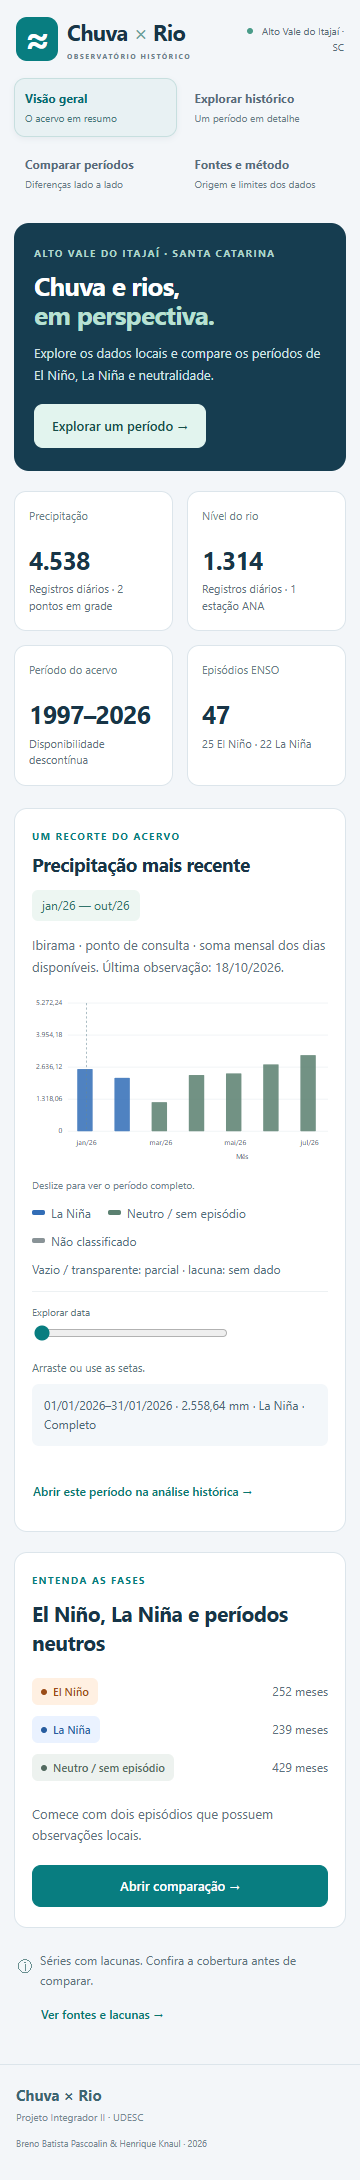
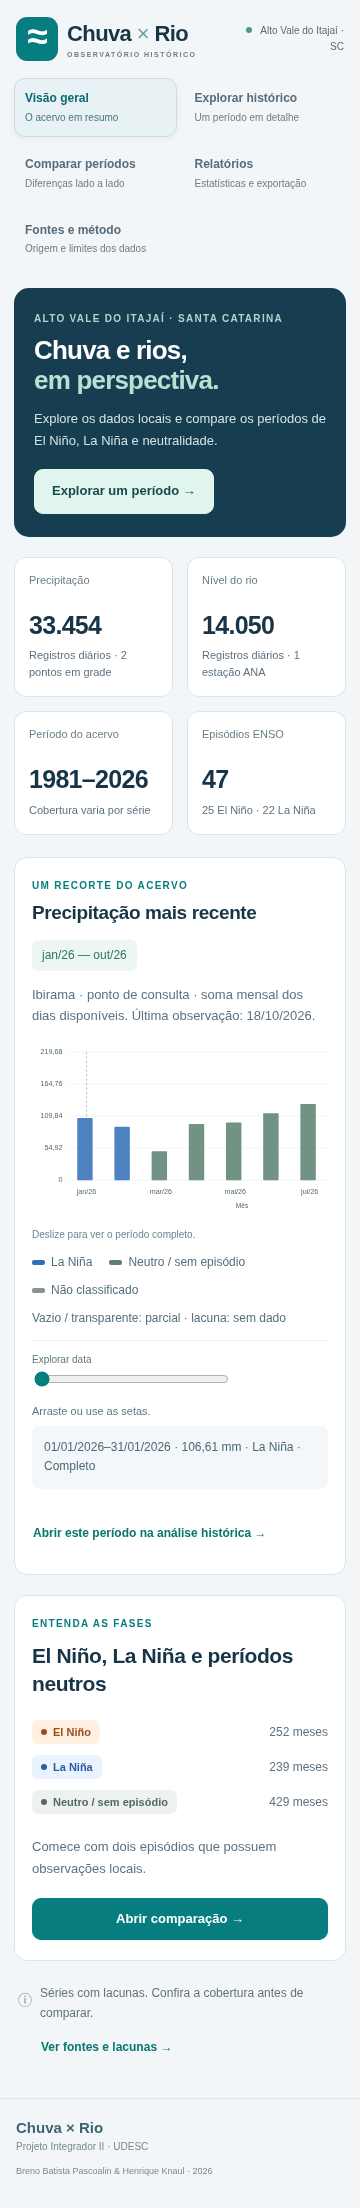
Documenta validação e atualiza roteiro e capturas

diff --git a/README.md b/README.md
@@ -3,13 +3,13 @@
 Análise histórica de precipitação, nível dos rios e fenômenos El Niño e La Niña no Alto Vale do Itajaí, Santa Catarina.
 **Projeto Integrador II — UDESC CEAVI · Breno Batista Pascoalin e Henrique Knaul.**
 
-MVP local com quatro áreas de navegação, filtros de período e fase ENSO, gráficos interativos, comparação e exportação CSV. A base distribuída contém **5.852 medições reais: 4.538 de precipitação NASA POWER e 1.314 de nível da ANA**, além do calendário histórico NOAA/CPC. Não há medições simuladas na demonstração.
+A versão de apresentação tem cinco áreas de navegação, filtros ENSO, gráficos interativos, comparação e relatórios com CSV e PDF. O acervo inclui **47.504 medições de fontes oficiais** (33.454 registros de precipitação NASA POWER e 14.050 de nível da ANA), 920 índices RONI e 94 janelas NOAA/CPC. A ampliação manteve as 5.852 datas por estação da versão anterior. A revisão oficial da NASA corrigiu 572 valores de 2026 e os originais continuam arquivados.
 
-![Visão geral do Chuva × Rio](docs/screenshots/dashboard.png)
+![Visão geral do Chuva × Rio](docs/screenshots/dashboard-1366.png)
 
 ## Executar em outra máquina
 
-Requisito: **Python 3.11 ou superior**, com pip. Baixe ou clone o repositório e abra o terminal na pasta que contém `run.py`.
+Requisito: **Python 3.11 ou superior**, com pip. Extraia o ZIP de entrega ou clone a branch de finalização e abra o terminal na pasta que contém `run.py`.
 
 **Windows / PowerShell:**
 
@@ -41,10 +41,13 @@ Nos exemplos seguintes, `python` representa o executável do ambiente virtual. U
 | --- | --- |
 | **Visão Geral** | Indicadores de dados e cobertura, resumo gráfico e atalhos para explorar a base. |
 | **Explorar histórico** | Escolha primeiro o período e os dados; ponto, estação e resolução ficam em “Local e detalhamento”. Valores, cobertura e máximos observados no intervalo. |
-| **Comparar períodos** | Exemplo El Niño × La Niña ou até três períodos personalizados, com um cartão por período, duração comum opcional e lacunas explícitas. |
-| **Fontes e método** | Fontes oficiais, calendário ENSO, critérios de agregação, cobertura por estação e histórico de cargas. |
+| **Comparar períodos** | Até três episódios, anos, datas personalizadas ou o período atual. Duração comum opcional e último dia com observação explícito. |
+| **Relatórios** | Recorte por datas, local, variável, fase e resolução. Estatísticas, cobertura, gráficos, CSV dos pontos e PDF consolidado. |
+| **Fontes e método** | Fontes oficiais, linha do tempo ENSO, critérios de agregação, cobertura por estação e histórico de cargas. |
 
 Gráficos respondem às seleções; os valores podem ser consultados nos pontos, nas tabelas e no CSV. Chuva e nível têm painéis e unidades distintos. El Niño aparece em laranja, La Niña em azul e neutralidade em verde; meses sem classificação ficam em cinza. Detalhes de amostra, máximos e procedência podem ser expandidos. Veja o [roteiro de apresentação](docs/DEMONSTRACAO.md) e os [resultados de validação](docs/STATUS_MVP.md).
+
+Em **Relatórios**, clique em **Salvar PDF** e escolha **Salvar como PDF** na caixa de impressão do navegador. O PDF reúne recorte, fontes, estatísticas e gráficos. O CSV separado preserva a tabela completa, com lacunas em branco.
 
 Para demonstrar **El Niño, La Niña e neutralidade no mesmo ano**, consulte **2016**, que tem precipitação e nível durante todo o ano. **1998** também atravessa as três fases, mas o nível possui lacunas. **2023–2024** mostra chuva real e explicita a indisponibilidade de nível no snapshot.
 
@@ -55,19 +58,19 @@ Para demonstrar **El Niño, La Niña e neutralidade no mesmo ano**, consulte **2
 - **NASA POWER — PRECTOTCORR:** precipitação diária em mm, nas coordenadas de Ibirama e Presidente Getúlio. É um produto em grade, não estação pluviométrica; pontos próximos podem compartilhar a mesma célula. [Documentação NASA](https://power.larc.nasa.gov/docs/services/api/temporal/daily/).
 - **ANA/SNIRH — estação 83440000, Ibirama, Rio Itajaí do Norte/Hercílio:** médias diárias consistidas, com status real, convertidas de cm para m. Referencial altimétrico desconhecido; são cotas locais, não altitude absoluta. [HidroWeb](https://www.snirh.gov.br/hidroweb/).
 
-O calendário distribuído cobre **janeiro de 1950 a agosto de 2026**. Medições locais cobrem **janelas descontínuas entre 1997 e 2026**, detalhadas em [data/README.md](data/README.md). Última precipitação válida: **18/10/2026**. Não há nível carregado para 2023–2024 nem para 2026. Um calendário extenso não significa cobertura hidrometeorológica contínua.
+O calendário distribuído cobre **janeiro de 1950 a agosto de 2026**. Há precipitação diária nos dois pontos de **01/01/1981 a 18/10/2026** e nível em Ibirama de **01/01/1981 a 31/12/2021**, com lacunas. Os pontos NASA retornaram os mesmos valores diários nesta base. A consulta de cotas de 2022 em diante não retornou médias diárias consistidas para incluir. Veja [cobertura, unidades e auditoria](data/README.md).
 
 Chuva mensal é a **soma dos dias válidos**; nível mensal é a **média dos dias válidos**. Um total parcial não representa um mês completo. Os indicadores de comparação entre períodos usam médias diárias (mm/dia para chuva e m para nível), acompanhadas de amostra e cobertura, evitando comparar apenas totais de períodos com tamanhos diferentes.
 
 O filtro ENSO conserva o eixo temporal: dias fora da fase escolhida são excluídos, sem serem contados como medições ausentes. Meses sem classificação são informados separadamente. Lacunas não são interpoladas nem convertidas em zero. A comparação de episódios por mês/dia relativo não controla sazonalidade; trecho comum limita a duração, mas não torna amostras equivalentes. Para múltiplos períodos mensais com trecho comum, inicie as janelas no dia 1; na resolução diária, podem começar em datas quaisquer.
 
-**Limites de interpretação:** os gráficos são descritivos. Não comprovam causalidade, não fazem previsão nem emitem alertas. Máximos são os maiores valores disponíveis no recorte, não limiares de desastre. A base fragmentada não sustenta climatologia local contínua nem anomalias climatológicas robustas.
+**Limites de interpretação:** os gráficos são descritivos. Não comprovam causalidade, não fazem previsão nem emitem alertas. Máximos são os maiores valores disponíveis no recorte, não limiares de desastre. A cobertura varia por variável e o produto em grade tem resolução espacial limitada.
 
 ## Bancos existentes e atualização
 
 Banco padrão: `data/chuva.sqlite`. A inicialização preserva medições e cargas existentes e migra o calendário antigo para contemplar as três classes, usando os índices já armazenados.
 
-Para experimentar o snapshot em banco separado, use um caminho novo no PowerShell:
+Para usar o acervo ampliado em uma instalação que já tem banco próprio, indique um caminho novo no PowerShell ou extraia o ZIP em outra pasta. A inicialização mantém o banco anterior e importa o snapshot atualizado somente no banco vazio.
 
 ```powershell
 $env:CHUVA_DB="data/apresentacao.sqlite"
@@ -86,7 +89,7 @@ python -m app.cli ana --metadata data/ibirama-ana.json --start 2014-11-01 --end 
 python -m app.cli backup --output data/backups/manual.sqlite
 ```
 
-`python -m app.cli refresh` verifica NOAA mensalmente e atualiza NASA até ontem, revisitando 30 dias para revisões; faz backup diário. ANA permanece uma carga explícita. Não há agendamento instalado. Falhas de rede preservam o histórico, e a interface consulta apenas a API local. Arquivos brutos, hashes e registros de carga permitem conferir a procedência.
+`python -m app.cli refresh` verifica a NOAA mensalmente e atualiza a NASA até ontem, revisitando até 30 dias para revisões. Também grava um backup com a data da execução. ANA permanece uma carga explícita. Não há agendamento instalado. Falhas de rede preservam o histórico, e a interface consulta apenas a API local. Arquivos brutos, hashes e registros de carga permitem conferir a procedência.
 
 O importador alternativo `python -m app.cli river --file serie.csv --metadata estacao.json` recebe CSV UTF-8 `date,value`, com datas ISO e médias diárias documentadas. O JSON exige `code`, `name`, `latitude`, `longitude`, `reference` HTTPS, `unit` (`cm`/`m`), `statistic` (`daily_mean`) e `datum` conhecido ou `null`. Não aceita automaticamente todos os formatos HidroWeb nem calcula médias de leituras horárias. Datas duplicadas provocam rollback. Detalhes em [data/README.md](data/README.md).
 
@@ -101,21 +104,27 @@ Os testes Python usam bancos temporários para classificação ENSO, migração,
 
 ```sh
 npm install --no-save playwright
-npx playwright install chromium
+npx playwright install chromium firefox
 node tests/browser.cjs
 ```
 
-Deixe o Python do ambiente virtual no `PATH` ou defina `TEST_PYTHON` com seu caminho. `TEST_BROWSER` permite usar um executável Chromium/Edge instalado. O teste inicia uma instância temporária com banco descartável, interage com a aplicação e grava capturas em `output/screenshots`. Não modifica o banco da apresentação. Os ensaios realizados estão em [docs/STATUS_MVP.md](docs/STATUS_MVP.md).
+Deixe o Python do ambiente virtual no `PATH` ou defina `TEST_PYTHON` com seu caminho. `TEST_BROWSER` permite usar um executável Chromium/Edge instalado. O teste inicia uma instância temporária com banco descartável, interage com a aplicação e grava capturas em `output/screenshots`. Para Firefox, execute com `TEST_ENGINE=firefox`. Os testes usam bancos descartáveis. Os ensaios realizados estão em [docs/STATUS_MVP.md](docs/STATUS_MVP.md).
 
 ## Estrutura
 
 - `app/`: FastAPI, SQLite, consultas e adaptadores NOAA/NASA/ANA.
 - `static/`: HTML, CSS, JavaScript e gráficos SVG locais.
 - `run.py` e `iniciar.cmd`: inicialização da base e servidor.
-- `data/demo.json` e `data/raw/`: snapshot real e arquivos de origem.
+- `data/demo.json.gz` e `data/raw/`: snapshot real e arquivos de origem.
 - `tests/`: testes de dados, API e navegação.
 - `docs/`: especificação preservada, roteiro, validação e capturas.
 
 Documentação interativa da API em **http://127.0.0.1:8000/docs**: `/api/catalog`, `/api/series`, `/api/compare`.
 
-Esta revisão evolui o MVP existente em Python/FastAPI, SQLite e JavaScript, mantendo a execução simples. A [especificação acadêmica](docs/Chuva_x_Rio_Especificacao_Revisada_28-09-2026.pdf) continua como referência; PostgreSQL, hospedagem de produção e validação de representatividade climática permanecem fora desta entrega local.
+A [especificação acadêmica de 28/09](docs/Chuva_x_Rio_Especificacao_Revisada_28-09-2026.pdf) permanece como referência dos requisitos.
+
+## Próxima etapa no Render
+
+Após a entrega local, selecione a branch revisada em um Web Service Python. O ponto de entrada aceita endereço e porta, e faz a carga inicial apenas em banco vazio. O processo de hospedagem poderá instalar `requirements.txt` e executar `python run.py --no-browser --host 0.0.0.0 --port "$PORT"`. Após iniciar, valide a URL pública e os fluxos de consulta, comparação e exportação. [Web Services](https://render.com/docs/web-services).
+
+Para uma demonstração com acervo fixo, o snapshot recria o SQLite quando o disco local é reiniciado. Se for necessário preservar cargas e backups entre reinícios, planeje armazenamento persistente e a posição de `CHUVA_DB`, arquivos brutos e backups antes da publicação. [Persistent Disks](https://render.com/docs/disks).

diff --git a/docs/STATUS_MVP.md b/docs/STATUS_MVP.md
@@ -1,39 +1,31 @@
-# Entrega e validação do MVP
+# Validação da entrega local — 05/11/2026
 
-Revisão de 22/10/2026 sobre a aplicação existente em Python/FastAPI, SQLite e JavaScript sem framework. A base original, os adaptadores NOAA/NASA/ANA e o iniciador local foram preservados. O escopo é uma demonstração acadêmica de análise histórica do Alto Vale do Itajaí.
+Ambiente de teste: Linux x86_64, Python 3.12.14, FastAPI 0.115.12 e SQLite. A referência é a [especificação de 28/09](Chuva_x_Rio_Especificacao_Revisada_28-09-2026.pdf), com o recorte desta entrega para apresentação local.
 
-## Implementação
+## Requisitos e evidências
 
-- Quatro áreas: Visão geral, Explorar histórico, Comparar períodos e Fontes e método; todas visíveis também na navegação móvel.
-- Filtros agrupados por período e dados, com local/resolução sob demanda; comparação guiada por etapas e um cartão de resultados por período. Amostra, máximos e procedência permanecem acessíveis em detalhes expansíveis.
-- Histórico por ano ou intervalo de até cinco anos, fase ENSO, ponto de precipitação, variável e resolução diária/mensal.
-- Comparação de até três episódios, anos ou intervalos, com duração comum opcional, cobertura e médias diárias descritivas.
-- Classificação de El Niño, La Niña e neutralidade a partir das marcações oficiais da tabela RONI ERSSTv6 NOAA/CPC, preservando os meses sem classificação.
-- Séries reais, lacunas explícitas, tabela acessível e CSV com procedência, unidades e classificação.
-- Gráficos separados para chuva (mm) e nível (m), leitura por cursor/teclado, estados de consulta e erro, navegação responsiva. Cores e legendas distinguem El Niño, La Niña, neutralidade e meses sem classificação; a comparação também diferencia períodos da mesma fase.
+| Requisitos | Entrega e verificação |
+| --- | --- |
+| RF01–RF05, RF16–RF18 | NASA POWER, NOAA/CPC e ANA integrados por cargas auditáveis. SQLite contém 47.504 medições, com local, fonte, data, unidade e procedência. Cobertura e lacunas aparecem na API, nos gráficos, nas tabelas e nos relatórios. |
+| RF06–RF09 | Linha do tempo RONI em ordem cronológica, filtrável por fase, com atalho para o recorte histórico. Chuva e nível em gráficos separados com resolução diária ou mensal. |
+| RF10–RF14 | Até três períodos em anos, episódios, datas livres ou período atual. Séries sobrepostas por variável, opções de duração comum ou original. O período atual usa a última data comum com dados. A interface informa quando uma variável carece de cobertura atual. |
+| RF15 | Rotina existente `python -m app.cli refresh` disponível para execução explícita. Agendamento recorrente e homologação de atualizações em hospedagem ficam pendentes. |
+| Entrega do professor | Dashboard, indicadores, relatórios consolidados, CSV da série e PDF com estatísticas e gráficos. Testes funcionais e de aceitação, roteiro, capturas atualizadas e pacote local. |
+| RNF01–RNF04 | Fluxos em Firefox e Chromium, três larguras de tela, interação por teclado e toque emulado e execução com tráfego externo bloqueado. |
+| RNF05–RNF07, RNF09–RNF10 | SQLite íntegro, sem chaves órfãs. Backup restaurado com igualdade integral nas seis tabelas. Testes de ordenação, datas, unidades, deduplicação, rollback, ausência e trilha de cargas. Política operacional de backup automático fica para a hospedagem. |
+| RNF08 | Ensaio local com a base entregue. O cenário formal da especificação com 1 milhão de registros e infraestrutura própria permanece pendente. |
 
-## Dados preservados
+## Testes executados
 
-São **5.852 medições reais**, das quais **4.538 de precipitação NASA POWER** em dois pontos e **1.314 médias diárias de nível ANA/SNIRH** da estação 83440000 em Ibirama. Nenhuma medição foi gerada para ampliar a cobertura.
+- **Python.** `python -m unittest discover -s tests -v`: 23/23 passaram. Inclui testes de integração com o TestClient, migração ENSO, períodos e fases inválidos, médias e somas, dias faltantes, revisões, rollback, consistência ANA, backup e integridade dos arquivos brutos.
+- **Aceitação no navegador.** `node tests/browser.cjs` em Chromium 151.0.7922.34 e Firefox 153.0. Cinco abas, teclado, filtros, linha do tempo, comparações, consultas, gráficos, CSV, falhas HTTP, descarte de resposta antiga e recuperação. Capturas em 1366, 768 e 360 px, com verificação de largura também nas tabelas abertas. Chromium verificou toque e gráfico a 390 px em modo celular. A execução usou navegadores desktop e emulação móvel.
+- **PDF.** O botão chama a impressão nativa. O PDF A4 gerado pelo Chromium foi aberto e conferido com gráficos, fontes, unidades, datas e cobertura. A exportação CSV inclui a série completa. O PDF é consolidado.
+- **Dados.** Os 41.652 novos registros foram conferidos contra os arquivos oficiais arquivados. As 5.852 observações anteriores foram recuperadas para conferência exata da assinatura, incluindo as originais que receberam revisão oficial. Foram verificados os SHA-256 de 52 arquivos de cargas, integridade do SQLite e vínculos de origem. A documentação de dados descreve a revisão de 2026 e a lacuna de cotas recentes. [Detalhes do acervo](../data/README.md).
+- **Desempenho local.** 100/100 respostas de comparação diária com 10 solicitações concorrentes, dois pontos/estações e três janelas de 24 meses. Em execução limitada a dois núcleos, p95 de 0,619 s e máximo de 0,897 s, medidos no cliente HTTP local com leitura do JSON. O teste usa 47.504 medições. A medição anterior sem afinidade de CPU obteve p95 de 2,555 s no mesmo ambiente compartilhado.
+- **Execução portátil.** Extração em pasta limpa, carga a partir do snapshot e reinício com banco existente testados em Linux com Python 3.13.5. Windows e macOS têm instruções próprias no README e ainda aguardam execução em equipamento físico.
 
-Os **920 índices mensais centrais** do snapshot NOAA vão de janeiro/1950 a agosto/2026. A mesma tabela agora origina **94 janelas contíguas**: 25 de El Niño, 22 de La Niña e 47 neutras/sem episódio confirmado. “Neutro” reproduz a ausência de marcação de episódio na fonte, inclusive valores que ainda não satisfazem a persistência; meses sem índice ficam não classificados.
+## Arquitetura e operação
 
-A última chuva válida é de 18/10/2026. Não há nível de rio para 2023–2024 ou 2026 na demonstração. A extensão temporal entre o primeiro e o último registro não representa cobertura contínua. Consulte [dados e procedência](../data/README.md).
+`run.py` inicializa o SQLite quando necessário e inicia o Uvicorn. `app/ingest.py` carrega e audita fontes e `app/series.py` aplica recorte, fase e resolução. A interface usa as rotas `/api/catalog`, `/api/series` e `/api/compare`. Relatórios reutilizam as séries consultadas e os gráficos SVG locais. CSV é gerado no navegador e PDF usa o mesmo recorte com estilos de impressão.
 
-## Verificação executada em 22/10/2026
-
-- **23 testes Python de dados e API aprovados**: seis de ENSO, onze de séries/importação, quatro regressões e dois testes de API. Abrangem fases oficiais, migração/idempotência, filtros, lacunas/zero, agregação, unidades, consistência ANA, rollback, deduplicação, intervalos e cobertura. Os dois testes com `TestClient` também concluíram após a liberação do ambiente.
-- **API HTTP real validada** com servidor local e banco temporário: restauração das 5.852 medições e 94 janelas; 1998 contém 365 dias de chuva, particionados em 120 quentes, 214 frios e 31 neutros. Filtros mantêm valores excluídos ausentes, rio em 2023 sem valores, La Niña em 2015 sem dias elegíveis, setembro/outubro de 2026 sem índice não entram como neutros; intervalo invertido retorna 422.
-- **Integridade e rastreabilidade verificadas**: igualdade exata das 5.852 medições e registros de ingestão com a base anterior, preservação dos valores/datas/IDs de carga dos 920 índices, 21 hashes de artefatos brutos corretos, `integrity_check` e `foreign_key_check` aprovados.
-- **Playwright aprovado em Edge/Chromium**: quatro abas, navegação por teclado, filtros por ano/data/fase/estação/resolução, gráficos interativos, comparação de até três períodos, exportações CSV, carregamento, respostas fora de ordem, falha HTTP e recuperação, recarregamento, reinício e abertura direta do HTML. Zero erros JavaScript ou falhas de recursos; consulta validada com tráfego externo bloqueado. As quatro abas e tabelas expandidas foram verificadas em 1366, 768 e 360 pixels, sem transbordamento horizontal. Capturas atualizadas em `docs/screenshots/`; revisão visual corrigiu o contraste do título da visão geral.
-
-`tests/browser.cjs` usa um banco descartável e uma porta local disponível. Inicia/encerra o servidor, impede tráfego externo e grava capturas em `output/screenshots/`. Não altera o banco usado na apresentação. As instruções reproduzíveis estão no [README](../README.md).
-
-## Limitações
-
-1. As janelas de precipitação e nível são descontínuas. Ampliar cobertura exige novas cargas das fontes; a interface não interpola nem substitui ausência por zero.
-2. NASA POWER é produto em grade, não pluviômetro físico. Pontos próximos podem compartilhar a mesma célula. O nível ANA é uma cota local, sem referencial altimétrico conhecido nesta base.
-3. As datas ENSO são meses centrais de temporadas móveis de três meses, não datas físicas diárias de início/fim. A análise é descritiva; diferenças não comprovam causalidade, anomalia climatológica ou significância estatística.
-4. O acervo local não é monitoramento em tempo real, previsão ou alerta. O comando de atualização continua disponível, mas não foi instalado agendamento do sistema operacional.
-5. Não foram executados ensaios de produção com um milhão de medições/dez usuários, homologação em Firefox, leitor de tela ou recuperação de falha abrupta. Não se afirma meta de latência de produção.
-6. SQLite atende a execução local. Migração para PostgreSQL, papéis de acesso e infraestrutura pública permanecem fora do escopo deste MVP.
+A consulta funciona com o snapshot distribuído e as fontes externas bloqueadas. A rede é necessária para instalar as dependências ou importar novas séries. O [README](../README.md) reúne as instruções de execução e o que ficará para a publicação.

diff --git a/docs/DEMONSTRACAO.md b/docs/DEMONSTRACAO.md
@@ -4,21 +4,21 @@
 
 Instale as dependências conforme o README. Execute `python run.py` com o Python do ambiente virtual ou abra `iniciar.cmd` no Windows. O sistema abre em http://127.0.0.1:8000/. Mantenha o terminal aberto. Após a instalação, a demonstração funciona sem internet.
 
-Bancos existentes são preservados e o calendário ENSO antigo é migrado automaticamente. O snapshot possui 5.852 medições reais, 920 índices RONI e 94 janelas de classificação. O calendário vai de 1950 a agosto de 2026; os dados locais são descontínuos entre 1997 e 2026.
+Bancos existentes são preservados e o calendário ENSO antigo é migrado automaticamente. Em uma pasta nova, o snapshot carrega 47.504 medições, 920 índices RONI e 94 janelas. O calendário vai de 1950 a agosto de 2026. A precipitação começa em 1981 e chega a 18/10/2026. As cotas disponíveis vão de 1981 a 2021, com lacunas.
 
 ## Demonstração de 5–7 minutos
 
 1. **Visão Geral.** Apresente o Alto Vale do Itajaí e os indicadores do acervo. Mostre o resumo da precipitação e explique que se trata de observação histórica, sem previsão nem alerta. O último dado de chuva é 18/10/2026.
 2. **Explorar histórico.** Selecione **2016** e **chuva e nível**. Em **Local e detalhamento**, confira **Ibirama** e **mensal**. O ano possui cobertura completa de ambas as variáveis. Passe pelos filtros **El Niño**, **La Niña** e **Neutro / sem episódio**: os pontos mudam e os meses excluídos não são tratados como falta de medição. Retorne a todas as fases; consulte um ponto do gráfico e a tabela.
 3. **Detalhes e lacunas.** Em **Local e detalhamento**, troque para diária e abra **Ver maiores valores observados**. Selecione **1998** para ver lacunas reais de nível; depois **2023** para demonstrar chuva disponível e nível indisponível. Não interprete ausência como nível zero. Restaure os filtros.
-4. **Comparar períodos.** Use **Usar El Niño × La Niña** para carregar episódios com observações locais. Cada cartão reúne média diária, acumulado e cobertura de um período. Selecione chuva e nível. Alterne **Comparar durações iguais** para observar também os comprimentos originais; explique que alinhar o tempo não controla sazonalidade. Remova um período, abra **Adicionar um período**, escolha um ano ou intervalo de datas e mostre que os gráficos respondem.
-5. **Exportação.** Abra a tabela e baixe o CSV. Ele preserva datas, unidade, fonte e cobertura. Compare dados do mesmo ponto/estação; não sobreponha cotas de estações diferentes como se fossem altitudes equivalentes.
-6. **Fontes e método.** Mostre as três fontes, o período de cobertura e abra **Como identificamos as fases?**. A NOAA usa o RONI ERSSTv6; o aplicativo reproduz as classes oficiais dos meses centrais das temporadas. Neutro significa sem episódio confirmado na tabela, e mês sem índice permanece sem classificação.
+4. **Comparar períodos.** Use **Usar El Niño × La Niña** para carregar episódios com observações locais. Cada cartão reúne média diária, acumulado e cobertura de um período. Selecione chuva e nível. Alterne **Comparar durações iguais** para observar também os comprimentos originais; explique que alinhar o tempo não controla sazonalidade. Remova um período, abra **Adicionar um período**, escolha um ano ou intervalo de datas e mostre que os gráficos respondem. Em seguida selecione apenas **Precipitação** e adicione **Período atual** para mostrar o corte na última observação.
+5. **Relatórios.** Use 01/01/2016 a 31/12/2016 e selecione as duas variáveis. Mostre média, máximo, acumulado de chuva e dias válidos. Exporte o CSV e escolha **Salvar como PDF** no diálogo do navegador para gerar o resumo com os gráficos.
+6. **Fontes e método.** Mostre as três fontes, filtre a linha do tempo por uma fase e abra um período histórico. Volte a Fontes e método e abra **Como identificamos as fases?**. A NOAA usa o RONI ERSSTv6; o aplicativo reproduz as classes oficiais dos meses centrais das temporadas. Neutro significa sem episódio confirmado na tabela, e mês sem índice permanece sem classificação.
 
 ## Mensagens essenciais
 
-- NASA POWER é produto em grade: pontos próximos podem compartilhar a mesma célula. ANA representa uma estação física, 83440000 — Ibirama, Rio Itajaí do Norte/Hercílio.
+- NASA POWER é produto em grade: os dois pontos consultados retornaram valores diários iguais no acervo. ANA representa uma estação física, 83440000 — Ibirama, Rio Itajaí do Norte/Hercílio.
 - Nível é média diária consistida, convertida de cm para m. O referencial altimétrico não foi informado.
 - Chuva mensal é soma dos dias válidos; nível mensal é média. Um mês parcial não é equivalente a um mês completo.
 - Diferenças históricas não comprovam causalidade entre ENSO, chuva e rio. Os máximos não são alertas ou anomalias climatológicas.
-- O período 2023–2024 e o ano atual não têm nível no snapshot. Nenhuma medição foi criada para completar a apresentação.
+- O nível está disponível até 31/12/2021. As consultas posteriores ao serviço legado não retornaram médias diárias consistidas elegíveis.
